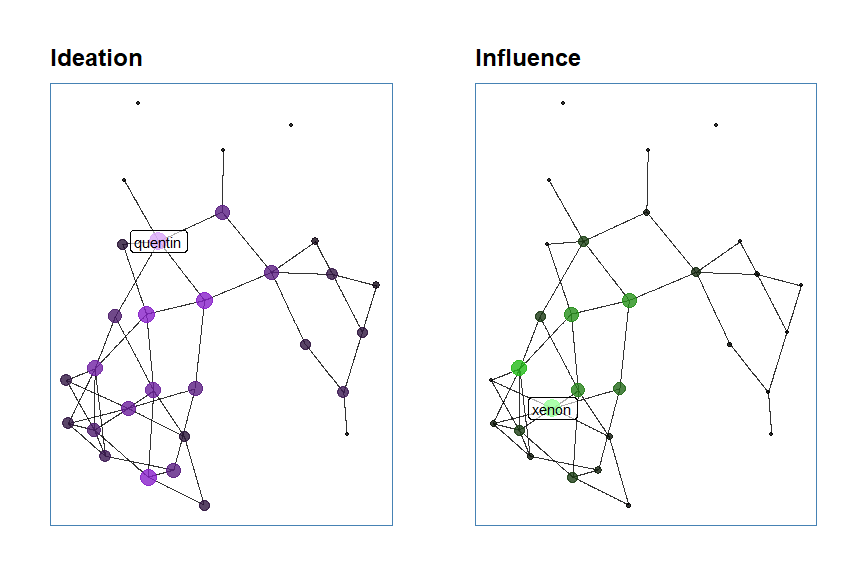
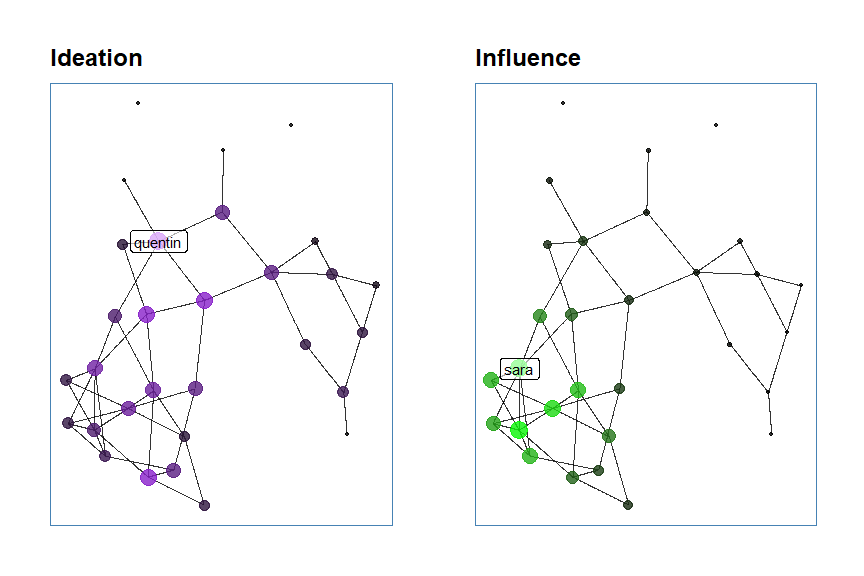
update readme

diff --git a/README.md b/README.md
@@ -122,9 +122,9 @@ hrgraphsign::get_top_by_column(example_graph, column = "influence", n = 3) %>%
 
 |     | firstName | lastName | influence | ideation |
 |:----|:----------|:---------|----------:|---------:|
-| 24  | xenon     | xor      |  0.113442 | 3.360392 |
-| 19  | sara      | sommar   |  0.085714 | 3.482800 |
-| 13  | martin    | mustig   |  0.068187 | 4.000000 |
+| 19  | sara      | sommar   | 1.0000000 | 3.482800 |
+| 28  | ängbert   | ärlig    | 0.9645710 | 2.687151 |
+| 24  | xenon     | xor      | 0.8676435 | 3.360392 |
 
 #### Comparison
 
